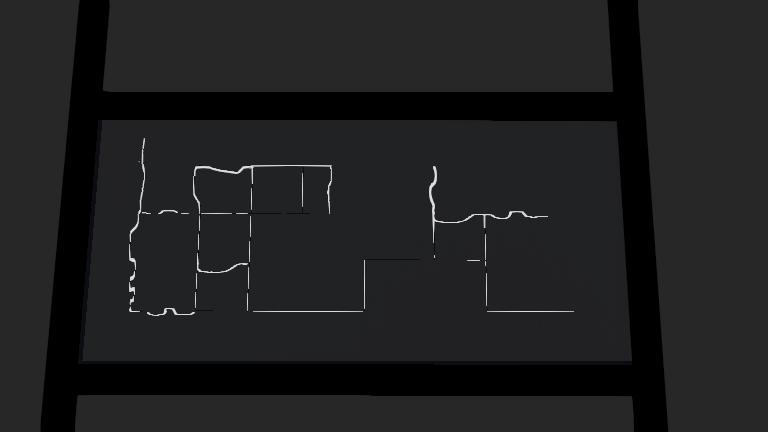
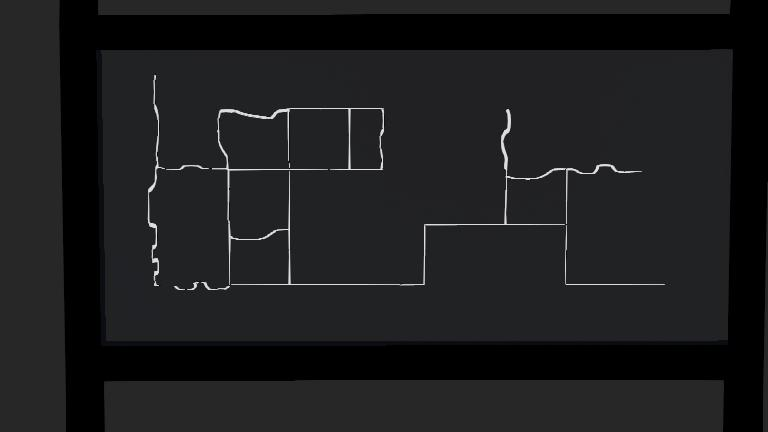
Rotation fixed!!! YAY
Fixed cross product for fixed rotation, all working well, need cleaning and some anti crash in the line

diff --git a/controllers/e_puck_simple/e_puck_simple.py b/controllers/e_puck_simple/e_puck_simple.py
@@ -19,13 +19,15 @@ currentCell = None
 
 #Angles and distance errors
 angleSafeRange = 0.05
-distSafeArea = 0.01
+distSafeArea = 0.1
 
-
+#Wheel speed
+left_wheel_speed = 0
+right_wheel_speed = 0
 
 
 max_speed = 6.28  # documentation vel
-currentSpeed = 0.25 * max_speed
+currentSpeed = 10
 
 def run_robot():
     # Robot State
@@ -59,6 +61,9 @@ def run_robot():
     inertialUnit = robot.getDevice('inertial unit')
     inertialUnit.enable(timestep)
 
+    compass = robot.getDevice('compass')
+    compass.enable(timestep)
+
     while robot.step(timestep) != -1:
 
         #Read Sensors
@@ -70,15 +75,26 @@ def run_robot():
         #print('roll: ' + str(roll) + ' pitch: ' + str(pitch) + ' yaw: ' + str(yaw))
 
         roll,pitch,yaw = inertialUnit.getRollPitchYaw()
-        forward_vector = [math.cos(yaw), 0, math.sin(yaw)]
+        #print('roll: ' + str(roll) + ' pitch: ' + str(pitch) + ' yaw: ' + str(yaw))
+
+        forward_vector = [math.cos(yaw), 0, -math.sin(yaw)]
+        print('FORWARD VECTOR: {0}'.format(forward_vector))
+        #forward_vector = compass.getValues()
+        # Calculate the direction the robot is facing
+
+
         #print('roll: ' + str(roll) + ' pitch: ' + str(pitch) + ' yaw: ' + str(yaw))
         #print(forward_vector)
 
         #Process data
 
         if robotCurrentState == 'ROTATING':
+            print('ROTATING TOWARDS: ' + currentCell.name)
             robotCurrentState = RotationBehaviour(forward_vector, left_motor,right_motor)
         else:
+            right_motor.setVelocity(currentSpeed)
+            left_motor.setVelocity(currentSpeed)
+
             robotCurrentState = MovementBehaviour(gpsValues, camera, left_motor,right_motor)
 
         print(robotCurrentState)
@@ -88,17 +104,28 @@ def run_robot():
 
 def MovementBehaviour(robotPosition,camera,right_motor,left_motor):
 
+    global left_wheel_speed,right_wheel_speed
+
     nextCell = totalPath[0]
     euclideanVector = [nextCell.position[0] - robotPosition[0],
                           nextCell.position[1] - robotPosition[1],
                           nextCell.position[2] - robotPosition[2]]
 
     distance = np.linalg.norm(np.array(euclideanVector))
+    print('DISTANCE TO NEXT POINT:' + str(distance))
+
+    slowDistance = 0.1
+    stopDistance = 0.05
 
     changeState = False
-    if distance < distSafeArea:
-        currentCell =  totalPath.pop(0)
+
+    if distance < stopDistance:
+        global currentCell
+        currentCell = totalPath.pop(0)
         changeState = True
+    elif distance< slowDistance:
+        right_motor.setVelocity(right_wheel_speed* distance)
+        left_motor.setVelocity(left_wheel_speed* distance)
     else:
         FollowLineMovement(camera, left_motor,right_motor)
 
@@ -158,6 +185,8 @@ def FollowLineMovement(camera,left_motor,right_motor):
 
             # Draw a circle at the average center point (for visualization)
         cv2.circle(frame, (average_center_x, average_center_y), 5, (0, 255, 0), -1)
+    else:
+        print('LINES NOT FOUND')
 
     cv2.imwrite('CENTER.jpg', frame)
 
@@ -172,10 +201,17 @@ def FollowLineMovement(camera,left_motor,right_motor):
     Kp = 2
 
     # Calculate the individual wheel speeds
-    left_wheel_speed = Kp + ((Ke * error) / desired_position)
-    right_wheel_speed = Kp - ((Ke * error) / desired_position)
+
+    global left_wheel_speed, right_wheel_speed
+    left_wheel_speed = Kp - ((Ke * error) / desired_position)
+    right_wheel_speed = Kp + ((Ke * error) / desired_position)
     left_motor.setVelocity(left_wheel_speed)
     right_motor.setVelocity(right_wheel_speed)
+
+    if(left_wheel_speed > right_wheel_speed):
+        print("AJUSTAR PARA A DIREITA")
+    else:
+        print('AJUSTAR PARA A ESQUERDA')
     ##print(f"left wheel: {left_wheel_speed}")
     ##print(f"right wheel: {right_wheel_speed}")
 
@@ -194,8 +230,10 @@ def RotationBehaviour(forwardVector,left_motor,right_motor):
 
     if angle >= angleSafeRange:
         TurnRight(left_motor,right_motor)
+        print('ROTATING RIGHT')
     elif angle <= -angleSafeRange:
         TurnLeft(left_motor,right_motor)
+        print('ROTATING LEFT')
     else:
          changeState = True
 
@@ -226,16 +264,16 @@ def angle_between(v1, v2):
     v1_u = unit_vector(v1)
     v2_u = unit_vector(v2)
     #return np.arccos(np.clip(np.dot(v1_u, v2_u), -1.0, 1.0))
-    return np.arctan2(np.cross(v1_u, v2_u), np.dot(v1_u, v2_u))[1]
+    return np.arctan2(np.cross(v2_u, v1_u), np.dot(v1_u, v2_u))[1]
 ##---------------------------------------------------------------------------------------
 
 def TurnRight(left_motor,right_motor):
-    right_motor.setVelocity(-currentSpeed/2)
-    left_motor.setVelocity(currentSpeed/2)
+    right_motor.setVelocity(0.0)
+    left_motor.setVelocity(0.2 * currentSpeed/2)
 
 def TurnLeft( left_motor,right_motor):
-    right_motor.setVelocity(currentSpeed/2)
-    left_motor.setVelocity(-currentSpeed/2)
+    right_motor.setVelocity(0.2 *currentSpeed/2)
+    left_motor.setVelocity(0.0)
 
 def DefineInitialCells():
 
@@ -281,10 +319,22 @@ if __name__=='__main__':
 
     currentCell = randomStartCell
 
+
+
+
+    TESTESTART = cellsGraph.worldCellsDict['C3']
+    TESTEP  = cellsGraph.worldCellsDict['C9']
+    TESTEND =  cellsGraph.worldCellsDict['C8']
+    TESTEPATH1 = pathFinding.FindPath(TESTESTART,TESTEP)
+    TESTPATH2 = pathFinding.FindPath(TESTEP,TESTEND)
+    totalPath = TESTEPATH1 + TESTPATH2
+    currentCell = TESTESTART
+
+
     #Start at random start cell position
     robotNode = robot.getFromDef('e-puck')
     translationField = robotNode.getField('translation')
-    translationField.setSFVec3f(randomStartCell.position)
+    translationField.setSFVec3f(TESTESTART.position)
 
 
     run_robot()
